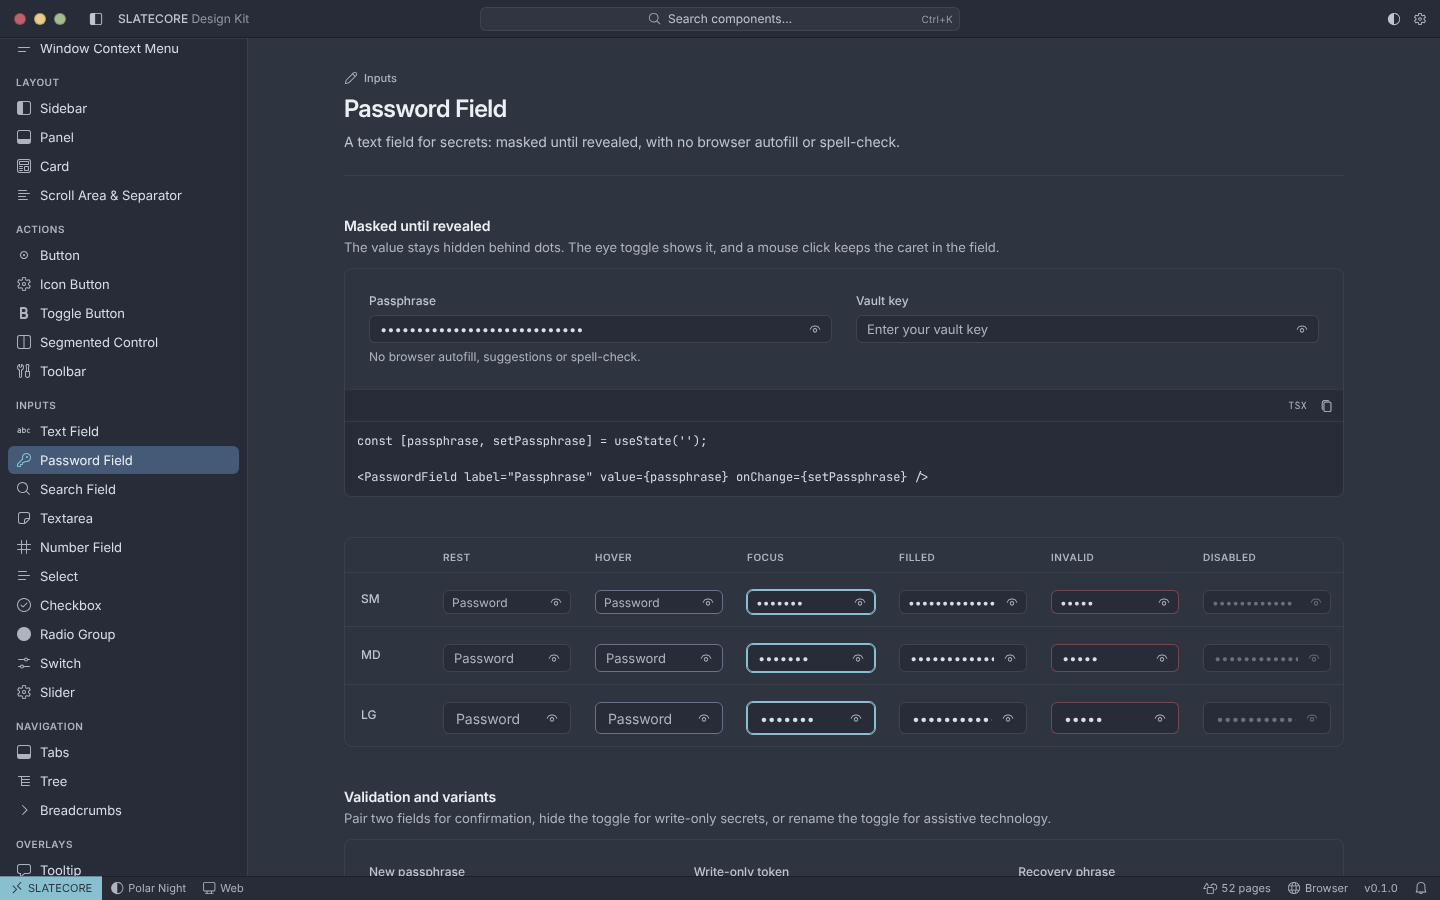
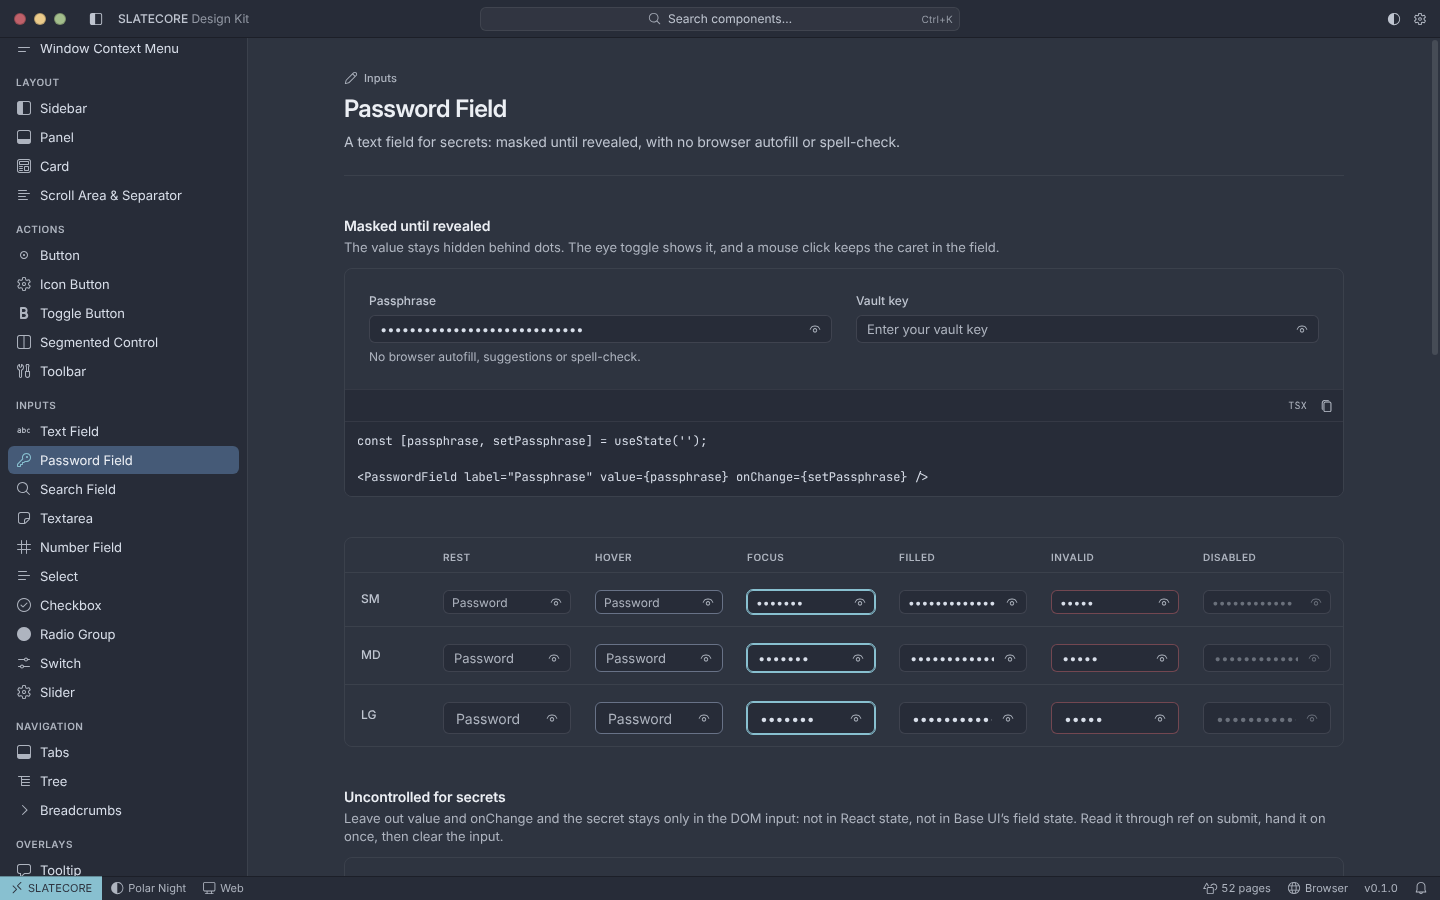
docs(example): show the uncontrolled password field with its states

diff --git a/programs/webapp/example/src/features/showcase/sections/inputs/password-field.section.tsx b/programs/webapp/example/src/features/showcase/sections/inputs/password-field.section.tsx
@@ -1,5 +1,5 @@
-import { PasswordField, type PasswordFieldProps } from '@genslate/design-system';
-import { useState } from 'react';
+import { Button, PasswordField, type PasswordFieldProps } from '@genslate/design-system';
+import { type ComponentType, type FormEvent, useRef, useState } from 'react';
 import { PropsTable } from '../../components/props-table.component';
 import { Specimen } from '../../components/specimen.component';
 import { StateMatrix } from '../../components/state-matrix.component';
@@ -10,11 +10,122 @@ const SIZES = ['sm', 'md', 'lg'] as const;
 
 type DemoProps = Omit<PasswordFieldProps, 'value' | 'onChange'> & { initial?: string };
 
-/** A PasswordField that owns its secret (the component itself is always controlled). */
+/** A controlled PasswordField: the demo owns the value in React state. */
 function Demo({ initial = '', ...props }: DemoProps) {
   const [value, setValue] = useState(initial);
   return <PasswordField {...props} value={value} onChange={setValue} />;
 }
+
+/**
+ * An uncontrolled PasswordField (no `value`, no `onChange`): the text lives only in the DOM
+ * input. The demo writes its sample text straight into the input, never through props.
+ */
+function UncontrolledDemo({ initial = '', ...props }: DemoProps) {
+  const prefill = (input: HTMLInputElement | null) => {
+    if (input !== null && input.value === '') input.value = initial;
+  };
+  return <PasswordField {...props} ref={prefill} />;
+}
+
+/** Stands in for the one consumer of the secret (an IPC call in the launcher). */
+function unlock(secret: string): boolean {
+  return secret.length > 0;
+}
+
+/** The pattern for secrets: read the input once on submit, hand it on, clear it. */
+function UncontrolledForm() {
+  const ref = useRef<HTMLInputElement>(null);
+  const [error, setError] = useState<string>();
+  const [status, setStatus] = useState('Nothing submitted yet.');
+  const submit = (event: FormEvent<HTMLFormElement>) => {
+    event.preventDefault();
+    const input = ref.current;
+    if (input === null) return;
+    if (input.value === '') {
+      setError('Enter the vault password.');
+      return;
+    }
+    unlock(input.value);
+    input.value = '';
+    setStatus('Read once, then cleared.');
+  };
+  return (
+    <form className="flex flex-col gap-3" onSubmit={submit}>
+      <PasswordField
+        ref={ref}
+        label="Vault password"
+        description="Uncontrolled: React never holds the secret."
+        error={error}
+        onInput={() => setError(undefined)}
+      />
+      <div className="flex items-center gap-3">
+        <Button type="submit" size="sm">
+          Unlock
+        </Button>
+        <p role="status" className="text-fg-muted text-sm">
+          {status}
+        </p>
+      </div>
+    </form>
+  );
+}
+
+/** One state-matrix row per size, for either mode. */
+function stateRows(Field: ComponentType<DemoProps>) {
+  return SIZES.map((size) => ({
+    label: size.toUpperCase(),
+    cells: [
+      <Field
+        className="w-32"
+        key="rest"
+        label={hidden('Rest')}
+        size={size}
+        placeholder="Password"
+      />,
+      <Field
+        className="w-32"
+        key="hover"
+        label={hidden('Hover')}
+        size={size}
+        placeholder="Password"
+        controlClassName={HOVER}
+      />,
+      <Field
+        className="w-32"
+        key="focus"
+        label={hidden('Focus')}
+        size={size}
+        initial="focused"
+        controlClassName={FOCUS}
+      />,
+      <Field
+        className="w-32"
+        key="filled"
+        label={hidden('Filled')}
+        size={size}
+        initial="hunter2-value"
+      />,
+      <Field
+        className="w-32"
+        key="invalid"
+        label={hidden('Invalid')}
+        size={size}
+        initial="short"
+        invalid
+      />,
+      <Field
+        className="w-32"
+        key="disabled"
+        label={hidden('Disabled')}
+        size={size}
+        initial="locked-value"
+        disabled
+      />,
+    ],
+  }));
+}
+
+const STATES = ['Rest', 'Hover', 'Focus', 'Filled', 'Invalid', 'Disabled'];
 
 const hidden = (text: string) => <span className="sr-only">{text}</span>;
 
@@ -57,60 +168,21 @@ export function PasswordFieldSection() {
         <Demo label="Vault key" placeholder="Enter your vault key" />
       </Specimen>
 
+      <StateMatrix caption="Password field states" columns={STATES} rows={stateRows(Demo)} />
+
+      <Specimen
+        title="Uncontrolled for secrets"
+        description="Leave out value and onChange and the secret stays only in the DOM input: not in React state, not in Base UI’s field state. Read it through ref on submit, hand it on once, then clear the input."
+        stageClassName="grid grid-cols-2 items-start gap-6"
+        code={`const ref = useRef<HTMLInputElement>(null);\n\nfunction submit() {\n  const input = ref.current;\n  if (input === null) return;\n  unlock(input.value); // the one place the secret goes\n  input.value = '';\n}\n\n<PasswordField ref={ref} label="Vault password" />`}
+      >
+        <UncontrolledForm />
+      </Specimen>
+
       <StateMatrix
-        caption="Password field states"
-        columns={['Rest', 'Hover', 'Focus', 'Filled', 'Invalid', 'Disabled']}
-        rows={SIZES.map((size) => ({
-          label: size.toUpperCase(),
-          cells: [
-            <Demo
-              className="w-32"
-              key="rest"
-              label={hidden('Rest')}
-              size={size}
-              placeholder="Password"
-            />,
-            <Demo
-              className="w-32"
-              key="hover"
-              label={hidden('Hover')}
-              size={size}
-              placeholder="Password"
-              controlClassName={HOVER}
-            />,
-            <Demo
-              className="w-32"
-              key="focus"
-              label={hidden('Focus')}
-              size={size}
-              initial="focused"
-              controlClassName={FOCUS}
-            />,
-            <Demo
-              className="w-32"
-              key="filled"
-              label={hidden('Filled')}
-              size={size}
-              initial="hunter2-value"
-            />,
-            <Demo
-              className="w-32"
-              key="invalid"
-              label={hidden('Invalid')}
-              size={size}
-              initial="short"
-              invalid
-            />,
-            <Demo
-              className="w-32"
-              key="disabled"
-              label={hidden('Disabled')}
-              size={size}
-              initial="locked-value"
-              disabled
-            />,
-          ],
-        }))}
+        caption="Uncontrolled password field states"
+        columns={STATES}
+        rows={stateRows(UncontrolledDemo)}
       />
 
       <Specimen
@@ -140,7 +212,13 @@ export function PasswordFieldSection() {
           {
             name: 'value / onChange',
             type: 'string / (value: string) => void',
-            description: 'Always controlled: the field never keeps a copy of the secret.',
+            description:
+              'Optional, both or neither. Given, the field is controlled. Left out, it is uncontrolled: the secret lives only in the DOM input (read it through ref, then clear it), never in React state. Use that for passwords.',
+          },
+          {
+            name: 'ref',
+            type: 'Ref<HTMLInputElement>',
+            description: 'The input itself: how an uncontrolled field is read and cleared.',
           },
           {
             name: 'label',

diff --git a/programs/webapp/example/tests/unit/password-field.test.tsx b/programs/webapp/example/tests/unit/password-field.test.tsx
@@ -1,20 +1,59 @@
 import { describe, expect, test } from 'bun:test';
 import { DesignSystemProvider } from '@genslate/design-system';
-import { render, screen } from '@testing-library/react';
+import { render, screen, within } from '@testing-library/react';
 import userEvent from '@testing-library/user-event';
 import { PasswordFieldSection } from '../../src/features/showcase/sections/inputs/password-field.section';
+
+function renderPage() {
+  return render(
+    <DesignSystemProvider platform="linux" theme="polar-night">
+      <PasswordFieldSection />
+    </DesignSystemProvider>,
+  );
+}
 
 describe('PasswordField page', () => {
   test('shows the field masked and reveals it on demand', async () => {
     const user = userEvent.setup();
-    render(
-      <DesignSystemProvider platform="linux" theme="polar-night">
-        <PasswordFieldSection />
-      </DesignSystemProvider>,
-    );
+    renderPage();
     const field = screen.getByLabelText('Passphrase');
     expect(field).toHaveAttribute('type', 'password');
     await user.click(screen.getAllByRole('button', { name: /show password/i })[0] as HTMLElement);
     expect(field).toHaveAttribute('type', 'text');
+  });
+
+  test('the uncontrolled specimen reads the secret once on submit and clears the field', async () => {
+    const user = userEvent.setup();
+    renderPage();
+    const field = screen.getByLabelText('Vault password');
+    const form = field.closest('form');
+    if (form === null) throw new Error('the uncontrolled specimen is not a form');
+    // Submitting empty shows the error, and typing clears it.
+    await user.click(within(form).getByRole('button', { name: 'Unlock' }));
+    expect(field).toHaveAttribute('aria-invalid', 'true');
+    await user.type(field, 'aurora');
+    expect(field).not.toHaveAttribute('aria-invalid');
+    await user.keyboard('{Enter}');
+    expect(field).toHaveValue('');
+    expect(within(form).getByRole('status')).toHaveTextContent('Read once, then cleared');
+  });
+
+  test('both modes have a state matrix and the props table explains the union', () => {
+    renderPage();
+    for (const caption of ['Password field states', 'Uncontrolled password field states']) {
+      const table = screen.getByRole('table', { name: caption });
+      expect(
+        within(table)
+          .getAllByRole('columnheader')
+          .map((cell) => cell.textContent),
+      ).toEqual(['Variant', 'Rest', 'Hover', 'Focus', 'Filled', 'Invalid', 'Disabled']);
+      expect(within(table).getAllByRole('rowheader')).toHaveLength(3);
+    }
+    expect(screen.queryByText(/always controlled/i)).toBeNull();
+    expect(screen.queryByText(/never keeps a copy/i)).toBeNull();
+    const row = screen.getByRole('row', { name: /value \/ onChange/ });
+    expect(row).toHaveTextContent(/optional/i);
+    expect(row).toHaveTextContent(/uncontrolled/i);
+    expect(row).toHaveTextContent(/only in the DOM input/i);
   });
 });
